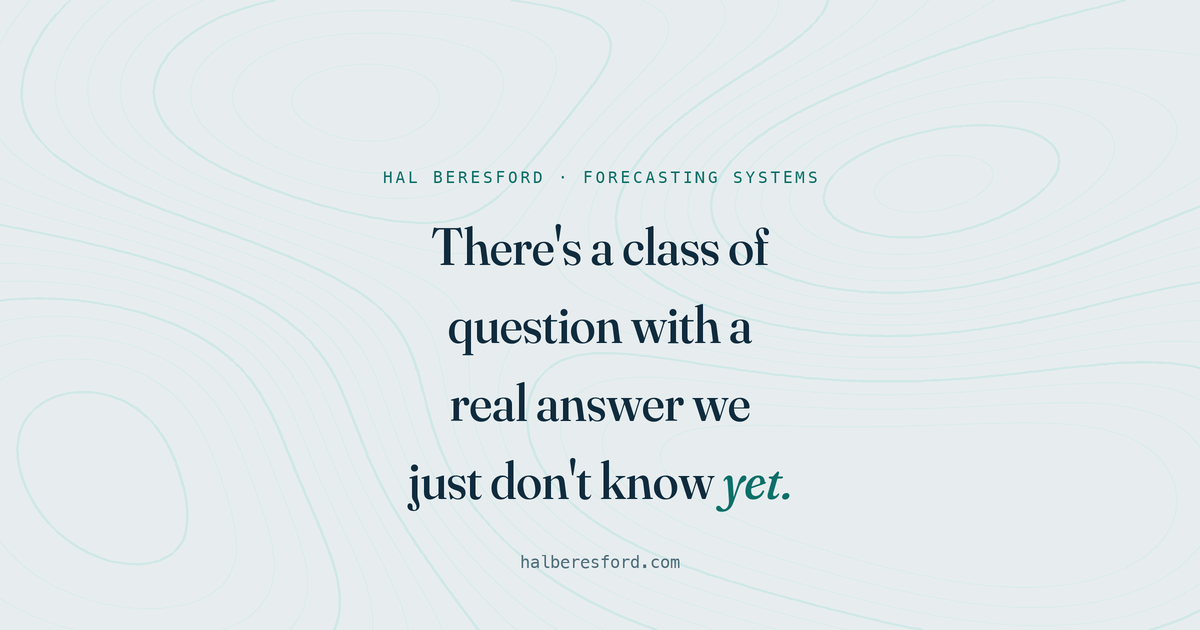
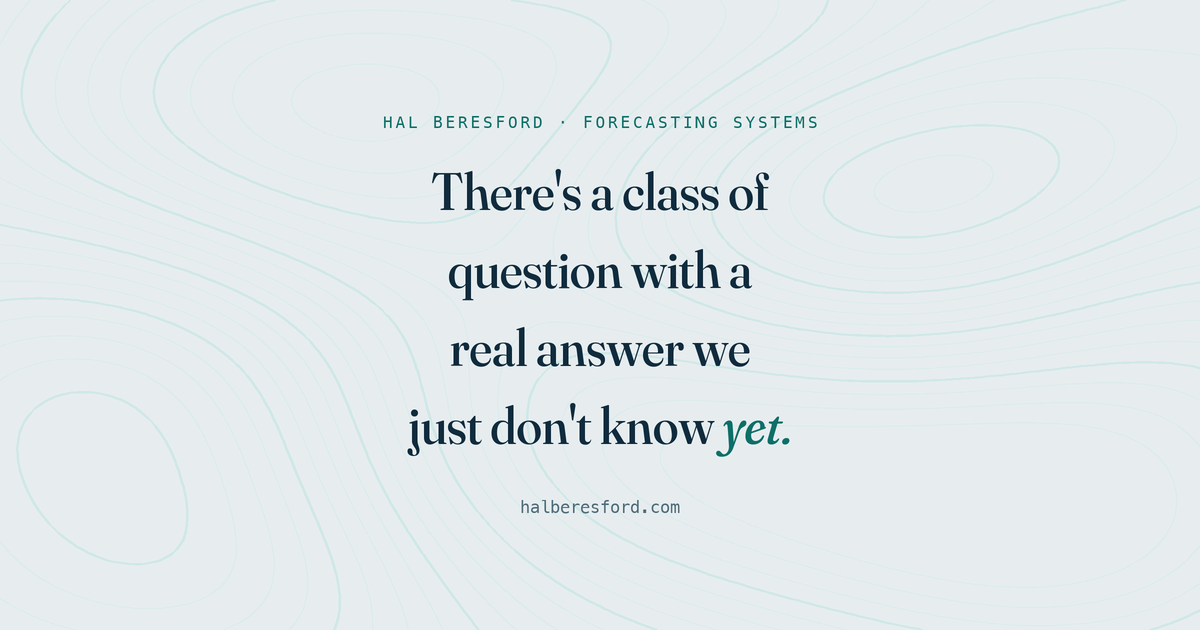
Centre the og.png content block; derive the offset instead of hardcoding it

diff --git a/curiosities/index.html b/curiosities/index.html
@@ -11,7 +11,7 @@
 <meta property="og:description" content="Exhibits from forecasting work: hypercubes, compounding, the two summer minutes Denver spent in winter, and naming the constraint before you buy the service." />
 <meta property="og:url" content="https://halberesford.com/curiosities/" />
 <meta property="og:site_name" content="Hal Beresford" />
-<meta property="og:image" content="https://halberesford.com/curiosities/og.png?v=2" />
+<meta property="og:image" content="https://halberesford.com/curiosities/og.png?v=3" />
 <meta property="og:image:width" content="1200" />
 <meta property="og:image:height" content="630" />
 <meta property="og:image:alt" content="A Cabinet of Curiosities — Hal Beresford. A wireframe tesseract above the title, with the line: hypercubes, compounding, instruments that lie, cloud bills." />

diff --git a/index.html b/index.html
@@ -11,7 +11,7 @@
 <meta property="og:description" content="I build and run an automated forecasting system that trades prediction markets on Kalshi — data pipelines, calibrated models, and live execution, end to end, solo." />
 <meta property="og:url" content="https://halberesford.com/" />
 <meta property="og:site_name" content="Hal Beresford" />
-<meta property="og:image" content="https://halberesford.com/og.png?v=2" />
+<meta property="og:image" content="https://halberesford.com/og.png?v=3" />
 <meta property="og:image:width" content="1200" />
 <meta property="og:image:height" content="630" />
 <meta property="og:image:alt" content="There's a class of question with a real answer we just don't know yet — Hal Beresford, forecasting systems. Set over a faint field of isobar contours." />
